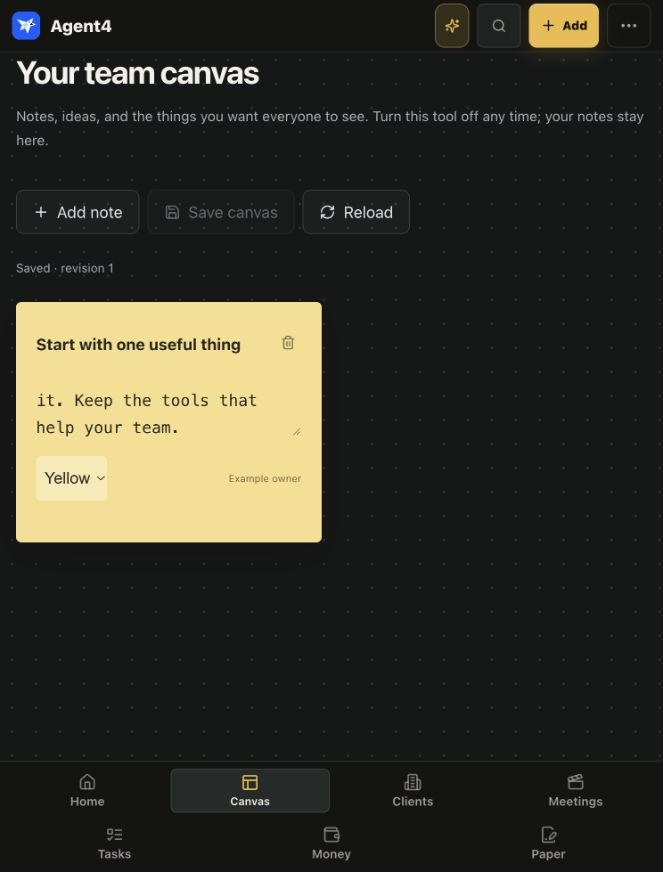
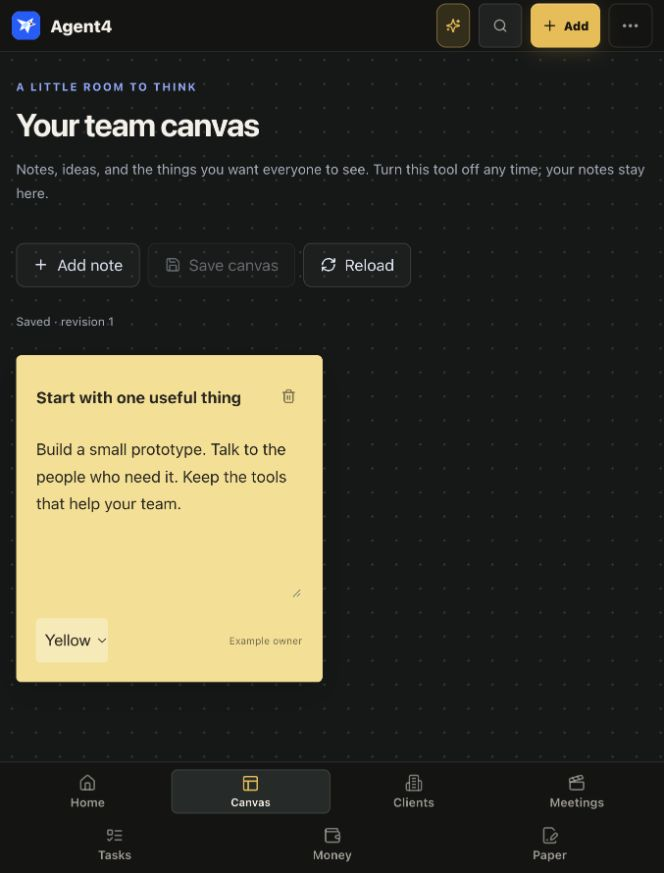
fix: keep the optional Canvas usable on small screens

diff --git a/hq/src/styles/31-community.css b/hq/src/styles/31-community.css
@@ -38,3 +38,11 @@
 .canvas-note input { font-weight: 700; font-size: 17px; }.canvas-note textarea { margin-top: 16px; resize: vertical; min-height: 140px; line-height: 1.7; font-size: 14px; }
 .canvas-note button { background: transparent; border: 0; color: inherit; opacity: .6; }.canvas-note footer { display: flex; justify-content: space-between; align-items: center; margin-top: 16px; gap: 8px; }.canvas-note select { background: #fff5; color: #29251e; border: 0; border-radius: 4px; padding: 5px; }.canvas-note small { font-size: 10px; opacity: .65; }
 @media(max-width:850px) { .setup-screen { grid-template-columns: minmax(0,420px); gap: 36px; padding: 36px 20px; }.setup-story h1 { font-size: 38px; }.setup-story > .agent4-avatar { width: 56px; height: 56px; margin-bottom: 16px; }.setup-story p { font-size: 14px; }.setup-promise { margin-top: 16px; }.canvas-page { padding: 28px 16px 140px; }.team-panel { max-height: calc(100dvh - 120px); } }
+/* Canvas owns its scrolling just like the other full-height app sections. */
+.room--home > .canvas-page { position: absolute; top: 58px; right: 0; bottom: 0; left: 0; width: 100%; overflow-y: auto; touch-action: pan-y; overscroll-behavior: contain; }
+.canvas-note textarea { font-family: inherit; }
+@media(max-width:759px) {
+  .room--home > .canvas-page { top: var(--hq-header-height); bottom: var(--hq-nav-height); padding-bottom: 32px; }
+  .place-nav { grid-auto-rows: minmax(0, 1fr); align-content: stretch; }
+  .place-nav__tier { min-height: 0; height: 100%; }
+}

diff --git a/hq/src/components/Canvas.jsx b/hq/src/components/Canvas.jsx
@@ -71,7 +71,7 @@ export function Canvas() {
     {!state.localObjects.length && !busy ? <div className="canvas-empty"><h2>Good ideas need somewhere to land.</h2><p>Add your first note. Keep a plan, a useful link, or a question for the team.</p></div> : null}
     <div className="canvas-notes">{state.localObjects.map(note => <article className={`canvas-note tone-${note.tone}`} key={note.id}>
       <div><input aria-label="Note title" maxLength={240} value={note.title} onChange={e => patch(note.id, { title: e.target.value })} /><button aria-label={`Delete ${note.title}`} onClick={() => { setState(s => ({ ...s, localObjects: s.localObjects.filter(n => n.id !== note.id) })); setDirty(true); }}><Trash2 size={15} /></button></div>
-      <textarea aria-label={`Content for ${note.title}`} maxLength={50000} value={note.body || ''} placeholder="Write it down…" onChange={e => patch(note.id, { body: e.target.value })} />
+      <textarea rows={6} aria-label={`Content for ${note.title}`} maxLength={50000} value={note.body || ''} placeholder="Write it down…" onChange={e => patch(note.id, { body: e.target.value })} />
       <footer><select aria-label="Note color" value={note.tone} onChange={e => patch(note.id, { tone: e.target.value })}><option value="yellow">Yellow</option><option value="blue">Blue</option><option value="mint">Mint</option><option value="pink">Pink</option></select><small>{note.updatedByName || note.createdByName || 'Your draft'}</small></footer>
     </article>)}</div>
   </main>;
